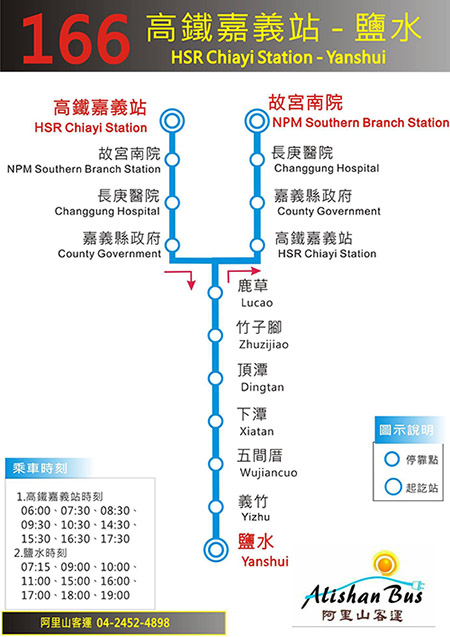
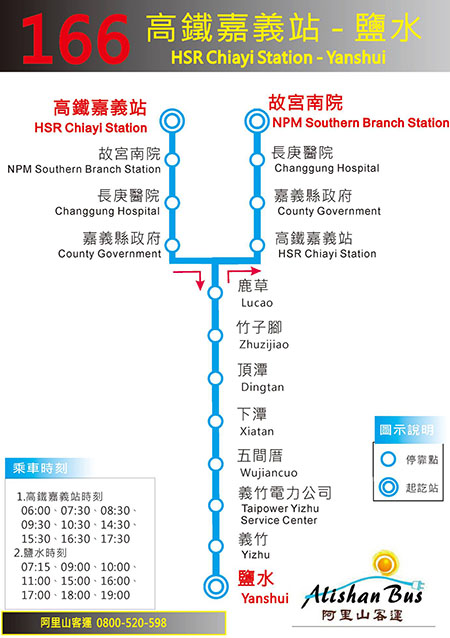
更新票價：166、7207、7208、7210、7214、7229、7407、7408、7410、7702、8050

diff --git a/route/fare_and_time/highway_bus_8050.js b/route/fare_and_time/highway_bus_8050.js
@@ -19,23 +19,23 @@ highway_bus_8050_interval_stop = [
 ["佛陀紀念館","佛光山"] // 佛光山
 ];
 highway_bus_8050_fare = [
-[24,21,29,37,40,48,56,64,69,77,85,93,117,131,142,155,163],
-[24,24,21,21,24,32,40,48,53,61,69,77,101,115,125,139,147],
-[33,24,24,21,21,21,27,35,40,48,56,64,88,101,112,125,134],
-[43,24,24,24,21,21,21,27,32,40,48,56,80,93,104,117,125],
-[46,27,24,24,24,21,21,24,29,37,45,53,77,91,101,115,123],
-[55,36,24,24,24,24,21,21,21,29,37,45,69,83,93,107,115],
-[64,46,30,24,24,24,24,21,21,21,29,37,61,75,85,99,107],
-[73,55,40,30,27,24,24,24,21,21,21,29,53,67,77,91,99],
-[79,61,46,36,33,24,24,24,24,21,21,24,48,61,72,85,93],
-[88,70,55,46,43,33,24,24,24,24,21,21,40,53,64,77,85],
-[97,79,64,55,52,43,33,24,24,24,24,21,32,45,56,69,77],
-[106,88,73,64,61,52,43,33,27,24,24,24,24,37,48,61,69],
-[134,116,100,91,88,79,70,61,55,46,36,26,24,21,24,37,45],
-[149,131,116,106,103,94,85,76,70,61,52,43,24,24,21,24,32],
-[161,143,128,119,116,106,97,88,82,73,64,55,27,24,24,21,21],
-[176,158,143,134,131,122,112,103,97,88,79,70,43,27,24,24,21],
-[185,167,152,143,140,131,122,112,106,97,88,79,52,36,24,24,24]
+[25,22,30,38,41,49,58,66,71,79,88,96,121,134,145,159,167],
+[25,25,22,22,25,33,41,49,55,63,71,79,104,118,129,142,151],
+[34,25,25,22,22,22,27,36,41,49,58,66,90,104,115,129,137],
+[44,25,25,25,22,22,22,27,33,41,49,58,82,96,107,121,129],
+[47,28,25,25,25,22,22,25,30,38,47,55,79,93,104,118,126],
+[56,37,25,25,25,25,22,22,22,30,38,47,71,85,96,110,118],
+[65,47,31,25,25,25,25,22,22,22,30,38,63,77,88,101,110],
+[75,56,41,31,28,25,25,25,22,22,22,30,55,68,79,93,101],
+[81,62,47,37,34,25,25,25,25,22,22,25,49,63,74,88,96],
+[90,72,56,47,44,34,25,25,25,25,22,22,41,55,66,79,88],
+[100,81,65,56,53,44,34,25,25,25,25,22,33,47,58,71,79],
+[109,90,75,65,62,53,44,34,28,25,25,25,25,38,49,63,71],
+[137,119,103,94,90,81,72,62,56,47,37,28,25,22,25,38,47],
+[153,134,119,109,106,97,87,78,72,62,53,44,25,25,22,25,33],
+[165,147,131,122,119,109,100,90,84,75,65,56,28,25,25,22,22],
+[181,162,147,137,134,125,115,106,100,90,81,72,44,28,25,25,22],
+[190,172,156,147,143,134,125,115,109,100,90,81,53,37,25,25,25]
 ];
 // format = [time at the start stop] or
 // [time, other] or

diff --git a/route/fare_and_time/highway_bus_7207.js b/route/fare_and_time/highway_bus_7207.js
@@ -19,23 +19,23 @@ highway_bus_7207_interval_stop = [
 ["牛埔","鹽水"] // 鹽水
 ];
 highway_bus_7207_fare = [
-[24,21,21,21,21,21,35,43,47,53,59,62,66,74,83,84,93],
-[24,24,21,21,21,21,29,38,41,48,53,57,61,68,77,79,87],
-[24,24,24,21,21,21,27,35,39,45,51,54,58,66,75,76,85],
-[24,24,24,24,21,21,22,31,34,41,46,50,54,61,70,72,80],
-[24,24,24,24,24,21,21,27,30,37,42,46,50,57,66,68,76],
-[24,24,24,24,24,24,21,21,23,30,35,38,42,50,59,61,69],
-[40,33,30,25,24,24,24,21,21,21,24,28,32,39,48,50,58],
-[49,43,40,35,30,24,24,24,21,21,21,21,23,30,40,41,49],
-[53,47,44,39,35,26,24,24,24,21,21,21,21,27,36,37,46],
-[61,54,52,47,42,34,24,24,24,24,21,21,21,21,30,31,39],
-[67,60,58,53,48,40,27,24,24,24,24,21,21,21,24,26,34],
-[71,64,62,57,52,44,31,24,24,24,24,24,21,21,21,22,30],
-[75,69,66,61,57,48,36,26,24,24,24,24,24,21,21,21,26],
-[84,78,75,70,65,57,44,35,30,24,24,24,24,24,21,21,21],
-[95,88,85,80,76,67,55,45,41,34,28,24,24,24,24,21,21],
-[96,90,87,82,77,69,57,47,43,35,29,25,24,24,24,24,21],
-[105,99,96,91,87,78,66,56,52,45,39,35,30,24,24,24,24]
+[25,22,22,22,22,22,36,44,48,55,60,64,68,76,85,87,95],
+[25,25,22,22,22,22,30,39,42,49,55,58,62,70,79,81,89],
+[25,25,25,22,22,22,27,36,40,47,52,56,60,67,77,78,87],
+[25,25,25,25,22,22,23,32,35,42,47,51,55,63,72,74,82],
+[25,25,25,25,25,22,22,27,31,38,43,47,51,59,68,70,78],
+[25,25,25,25,25,25,22,22,24,30,36,39,44,51,61,62,71],
+[41,34,31,26,25,25,25,22,22,22,25,28,32,40,50,51,59],
+[51,44,41,36,31,25,25,25,22,22,22,22,24,31,41,42,51],
+[55,48,46,40,36,27,25,25,25,22,22,22,22,27,37,38,47],
+[62,56,53,48,43,35,25,25,25,25,22,22,22,22,30,32,40],
+[69,62,59,54,49,41,28,25,25,25,25,22,22,22,25,26,35],
+[73,66,63,58,53,45,32,25,25,25,25,25,22,22,22,23,31],
+[77,71,68,63,58,50,37,27,25,25,25,25,25,22,22,22,27],
+[86,80,77,71,67,58,46,36,31,25,25,25,25,25,22,22,22],
+[97,90,88,82,78,69,56,46,42,35,28,25,25,25,25,22,22],
+[99,92,89,84,79,71,58,48,44,36,30,26,25,25,25,25,22],
+[108,102,99,94,89,80,68,58,53,46,40,36,31,25,25,25,25]
 ];
 // format = [time at the start stop] or
 // [time, other] or

diff --git a/route/fare_and_time/highway_bus_7208.js b/route/fare_and_time/highway_bus_7208.js
@@ -19,23 +19,23 @@ highway_bus_7208_interval_stop = [
 ["牛埔","鹽水"] // 鹽水
 ];
 highway_bus_7208_fare = [
-[24,21,21,21,21,21,35,43,47,53,58,62,66,74,83,84,93],
-[24,24,21,21,21,21,29,38,41,48,53,57,61,68,77,79,87],
-[24,24,24,21,21,21,27,35,39,45,50,54,58,66,75,76,85],
-[24,24,24,24,21,21,22,31,34,41,46,50,54,61,70,72,80],
-[24,24,24,24,24,21,21,27,30,37,42,46,50,57,66,68,76],
-[24,24,24,24,24,24,21,21,23,30,35,38,42,50,59,61,69],
-[40,33,30,25,24,24,24,21,21,21,24,28,32,39,48,50,58],
-[49,43,40,35,30,24,24,24,21,21,21,21,23,30,40,41,49],
-[53,47,44,39,35,26,24,24,24,21,21,21,21,27,36,37,46],
-[61,54,52,47,42,34,24,24,24,24,21,21,21,21,30,31,39],
-[67,60,57,52,48,40,27,24,24,24,24,21,21,21,28,29,37],
-[71,64,62,57,52,44,31,24,24,24,24,24,21,21,21,22,30],
-[75,69,66,61,57,48,36,26,24,24,24,24,24,21,21,21,26],
-[84,78,75,70,65,57,44,35,30,24,24,24,24,24,21,21,21],
-[95,88,85,80,76,67,55,45,41,34,31,24,24,24,24,21,21],
-[96,90,87,82,77,69,57,47,43,35,33,25,24,24,24,24,21],
-[105,99,96,91,87,78,66,56,52,45,42,35,30,24,24,24,24]
+[25,22,22,22,22,22,36,44,48,55,60,64,68,76,85,87,95],
+[25,25,22,22,22,22,30,39,42,49,54,58,62,70,79,81,89],
+[25,25,25,22,22,22,27,36,40,47,52,56,60,67,77,78,87],
+[25,25,25,25,22,22,23,32,35,42,47,51,55,63,72,74,82],
+[25,25,25,25,25,22,22,27,31,38,43,47,51,59,68,70,78],
+[25,25,25,25,25,25,22,22,24,30,36,39,44,51,61,62,71],
+[41,34,31,26,25,25,25,22,22,22,24,28,32,40,50,51,59],
+[51,44,41,36,31,25,25,25,22,22,22,22,24,31,41,42,51],
+[55,48,46,40,36,27,25,25,25,22,22,22,22,27,37,38,47],
+[62,56,53,48,43,35,25,25,25,25,22,22,22,22,30,32,40],
+[68,62,59,54,49,41,28,25,25,25,25,22,22,22,28,30,38],
+[73,66,63,58,53,45,32,25,25,25,25,25,22,22,22,23,31],
+[77,71,68,63,58,50,37,27,25,25,25,25,25,22,22,22,27],
+[86,80,77,71,67,58,46,36,31,25,25,25,25,25,22,22,22],
+[97,90,88,82,78,69,56,46,42,35,32,25,25,25,25,22,22],
+[99,92,89,84,79,71,58,48,44,36,34,26,25,25,25,25,22],
+[108,102,99,94,89,80,68,58,53,46,43,36,31,25,25,25,25]
 ];
 // format = [time at the start stop] or
 // [time, other] or

diff --git a/route/fare_and_time/hsr_shuttle_166.js b/route/fare_and_time/hsr_shuttle_166.js
@@ -1,7 +1,8 @@
-hsr_shuttle_166_interval_name = ["鹽水","義竹","五間厝","下潭","頂潭","竹子腳","鹿草","高鐵<br />嘉義站","嘉義<br />縣政府","長庚<br />醫院","故宮<br />南院"];
+hsr_shuttle_166_interval_name = ["鹽水","義竹","義竹電<br />力公司","五間厝","下潭","頂潭","竹子腳","鹿草","高鐵<br />嘉義站","嘉義<br />縣政府","長庚<br />醫院","故宮<br />南院"];
 hsr_shuttle_166_interval_stop = [
 ["鹽水"], // 鹽水
 ["義竹"], // 義竹
+["義竹電力公司"], // 義竹電力公司
 ["五間厝"], // 五間厝
 ["下潭"], // 下潭
 ["頂潭"], // 頂潭
@@ -13,17 +14,18 @@ hsr_shuttle_166_interval_stop = [
 ["故宮南院"] // 故宮南院
 ];
 hsr_shuttle_166_fare = [
-[24,21,21,27,30,33,38,56,60,64,68],
-[24,24,21,21,21,24,29,47,51,55,59],
-[24,24,24,21,21,21,21,37,41,45,49],
-[30,24,24,24,21,21,21,30,34,38,42],
-[34,24,24,24,24,21,21,27,30,35,38],
-[37,27,24,24,24,24,21,23,27,31,35],
-[43,33,24,24,24,24,24,21,22,26,30],
-[64,54,42,34,30,27,24,24,21,21,21],
-[68,58,46,38,35,31,25,24,24,21,21],
-[73,63,51,43,39,36,30,24,24,24,21],
-[78,68,55,47,44,40,34,24,24,24,24]
+[24,21,21,21,27,30,34,39,58,62,66,70],
+[24,24,21,21,21,21,25,30,49,53,57,61],
+[24,24,24,21,21,21,21,27,45,49,54,58],
+[24,24,24,24,21,21,21,21,38,42,46,50],
+[31,24,24,24,24,21,21,21,30,34,39,43],
+[35,24,24,24,24,24,21,21,27,31,36,40],
+[38,28,24,24,24,24,24,21,24,28,32,36],
+[44,34,30,24,24,24,24,24,21,23,27,31],
+[66,55,52,43,35,31,27,24,24,21,21,21],
+[70,60,56,47,39,36,32,26,24,24,21,21],
+[75,65,61,52,44,40,37,31,24,24,24,21],
+[80,69,66,57,49,45,41,35,24,24,24,24]
 ];
 // format = [time at the start stop] or
 // [time, other] or

diff --git a/tools/show_fare_tool.js b/tools/show_fare_tool.js
@@ -1,6 +1,6 @@
 var HIGHWAY_CARD_PRICE_RATIO = 0.87842; // Card price = Cash price * HIGHWAY_CARD_PRICE_RATIO
-var HIGHWAY_CARD_PRICE_BASE = 21; // The card price for distance within 8 km
-var HIGHWAY_CARD_PRICE_DISCOUNT = 5; // Discount for the highway bus of Hsinyin Bus
+var HIGHWAY_CARD_PRICE_BASE = 22; // The card price for distance within 8 km
+var HIGHWAY_CARD_PRICE_DISCOUNT = 0; // Discount for the highway bus of Hsinyin Bus
 
 function create_select_menu(name_array, color_name, LINE_NAME, fare_type){ // print the fare menu
 	var max_color_num = 4;
@@ -48,10 +48,10 @@ function query_fare(theForm, fare_array, fare_type){
 			card_price = Math.round(price * HIGHWAY_CARD_PRICE_RATIO);
 			break;
 		case 'highway': // real price for using RFID card
-			card_price = (fd<td) ? fare_array[fd][td]: (fd==td) ? 21 : fare_array[td][fd];
+			card_price = (fd<td) ? fare_array[fd][td]: (fd==td) ? 22 : fare_array[td][fd];
 			break;
 		case '8050':
-			card_price = (fd<td) ? fare_array[fd][td]: (fd==td) ? 21 : fare_array[td][fd];
+			card_price = (fd<td) ? fare_array[fd][td]: (fd==td) ? 22 : fare_array[td][fd];
 			var citizen_card_price = card_price - HIGHWAY_CARD_PRICE_BASE;
 			document.getElementById("card_adult").innerHTML = citizen_card_price;
 			document.getElementById("card_half").innerHTML = Math.floor(citizen_card_price/2);

diff --git a/route/fare_and_time/tour_bus_7702.js b/route/fare_and_time/tour_bus_7702.js
@@ -1,4 +1,4 @@
-tour_bus_7702_interval_name = ["嘉義<br />轉運站","嘉義<br />高鐵站","故宮南院","東石漁<br />人碼頭","高跟鞋<br />教堂","好美里","北門遊<br />客中心"];
+tour_bus_7702_interval_name = ["嘉義<br />轉運站","嘉義<br />高鐵站","故宮南院","東石漁<br />人碼頭","高跟鞋<br />教堂","好美里","北門遊<br />客中心","嘉義<br />高鐵站","嘉義<br />轉運站"];
 tour_bus_7702_interval_stop = [
 ["嘉義轉運站"],
 ["嘉義高鐵站"],
@@ -6,16 +6,20 @@ tour_bus_7702_interval_stop = [
 ["東石漁人碼頭"],
 ["高跟鞋教堂"],
 ["好美里"],
-["北門遊客中心"]
+["北門遊客中心"],
+["嘉義高鐵站"],
+["嘉義轉運站"]
 ];
 tour_bus_7702_fare = [
-[24,39,49,104,141,173,202],
-[44,24,21,65,102,134,163],
-[56,24,24,54,92,124,152],
-[118,74,62,24,37,69,98],
-[161,116,105,43,24,32,60],
-[197,153,141,79,36,24,28],
-[230,185,173,111,69,32,24]
+[25,40,51,107,145,178,207,331,371],
+[46,25,22,67,105,138,167,291,331],
+[58,25,25,56,94,127,156,280,320],
+[121,76,64,25,38,71,100,224,264],
+[165,119,107,44,25,33,62,186,226],
+[202,157,145,81,37,25,29,153,193],
+[235,190,178,114,70,33,25,124,164],
+[376,331,319,255,211,174,141,25,40],
+[422,376,364,301,257,220,186,46,25]
 ];
 // format = [time at the start stop] or
 // [time, other] or

diff --git a/route/fare_and_time/highway_bus_7210.js b/route/fare_and_time/highway_bus_7210.js
@@ -13,17 +13,17 @@ highway_bus_7210_interval_stop = [
 ["恆大","日光幼稚園","舊郵局","圓環地政","白河分局","白河"] // 白河
 ];
 highway_bus_7210_fare = [
-[24,21,21,21,21,23,30,33,38,42,48],
-[24,24,21,21,21,21,24,27,31,35,41],
-[24,24,24,21,21,21,21,23,27,31,37],
-[24,24,24,24,21,21,21,21,23,27,33],
-[24,24,24,24,24,21,21,21,21,21,26],
-[26,24,24,24,24,24,21,21,21,21,25],
-[34,27,24,24,24,24,24,21,21,21,21],
-[38,31,26,24,24,24,24,24,21,21,21],
-[43,36,31,26,24,24,24,24,24,21,21],
-[47,40,35,30,24,24,24,24,24,24,21],
-[54,47,42,37,30,29,24,24,24,24,24]
+[25,22,22,22,22,23,31,34,39,43,49],
+[25,25,22,22,22,22,24,28,32,36,42],
+[25,25,25,22,22,22,22,23,28,32,38],
+[25,25,25,25,22,22,22,22,23,27,34],
+[25,25,25,25,25,22,22,22,22,22,27],
+[27,25,25,25,25,25,22,22,22,22,26],
+[35,28,25,25,25,25,25,22,22,22,22],
+[39,31,27,25,25,25,25,25,22,22,22],
+[44,36,31,27,25,25,25,25,25,22,22],
+[49,41,36,31,25,25,25,25,25,25,22],
+[56,48,43,38,31,29,25,25,25,25,25]
 ];
 // format = [time at the start stop] or
 // [time, other] or

diff --git a/route/fare_and_time/highway_bus_7407.js b/route/fare_and_time/highway_bus_7407.js
@@ -16,20 +16,20 @@ highway_bus_7407_interval_stop = [
 ["朴子加油站","診所前(蔡眼科)","朴子"] // 朴子
 ];
 highway_bus_7407_fare = [
-[24],
-[24,24],
-[24,24,24],
-[28,24,24,24],
-[32,24,24,24,24],
-[34,24,24,24,24,24],
-[40,25,24,24,24,24,24],
-[45,30,24,24,24,24,24,24],
-[50,35,26,24,24,24,24,24,24],
-[56,41,33,28,24,24,24,24,24,24],
-[63,48,39,35,31,29,24,24,24,24,24],
-[70,55,46,42,38,36,30,25,24,24,24,24],
-[73,58,49,45,41,39,33,28,24,24,24,24,24],
-[86,71,62,58,54,52,47,41,36,30,24,24,24,24]
+[25],
+[25,25],
+[25,25,25],
+[29,25,25,25],
+[32,25,25,25,25],
+[35,25,25,25,25,25],
+[41,25,25,25,25,25,25],
+[46,31,25,25,25,25,25,25],
+[51,36,27,25,25,25,25,25,25],
+[58,42,33,29,25,25,25,25,25,25],
+[64,49,40,36,32,30,25,25,25,25,25],
+[72,56,47,43,39,37,31,26,25,25,25,25],
+[75,60,51,46,42,40,34,29,25,25,25,25,25],
+[88,73,64,60,56,54,48,42,37,31,25,25,25,25]
 ];
 // format = [time at the start stop] or
 // [time, other] or

diff --git a/route/fare_and_time/highway_bus_7408.js b/route/fare_and_time/highway_bus_7408.js
@@ -16,20 +16,20 @@ highway_bus_7408_interval_stop = [
 ["好美里"] // 好美里
 ];
 highway_bus_7408_fare = [
-[24],
-[24,24],
-[25,24,24],
-[34,24,24,24],
-[37,24,24,24,24],
-[41,25,24,24,24,24],
-[43,27,24,24,24,24,24],
-[48,32,24,24,24,24,24,24],
-[53,37,28,24,24,24,24,24,24],
-[62,46,37,28,25,24,24,24,24,24],
-[69,53,43,35,32,28,26,24,24,24,24],
-[80,64,55,46,43,39,37,32,26,24,24,24],
-[95,79,70,61,58,54,52,47,41,33,26,24,24],
-[89,73,64,55,52,48,46,41,35,27,24,24,24,24]
+[25],
+[25,25],
+[26,25,25],
+[35,25,25,25],
+[38,25,25,25,25],
+[42,25,25,25,25,25],
+[44,27,25,25,25,25,25],
+[49,33,25,25,25,25,25,25],
+[55,38,29,25,25,25,25,25,25],
+[64,47,38,29,26,25,25,25,25,25],
+[70,54,45,36,32,29,27,25,25,25,25],
+[82,65,56,47,44,40,38,33,27,25,25,25],
+[97,81,71,63,59,56,53,48,42,34,27,25,25],
+[91,75,65,56,53,49,47,42,36,27,25,25,25,25]
 ];
 // format = [time at the start stop] or
 // [time, other] or

diff --git a/route/fare_and_time/highway_bus_7229.js b/route/fare_and_time/highway_bus_7229.js
@@ -12,16 +12,16 @@ highway_bus_7229_interval_stop = [
 ["柳營簡易庭","柳營奇美醫院"] // 柳營奇美醫院
 ];
 highway_bus_7229_fare = [
-[24,21,21,21,27,35,43,59,69,81],
-[24,24,21,21,21,27,35,51,61,73],
-[24,24,24,21,21,23,31,47,56,69],
-[24,24,24,24,21,21,23,39,48,61],
-[31,24,24,24,24,21,21,32,42,54],
-[40,31,26,24,24,24,21,24,34,46],
-[49,40,35,26,24,24,24,21,26,38],
-[67,58,53,44,36,27,24,24,21,22],
-[78,69,64,55,47,38,29,24,24,21],
-[92,83,78,69,61,52,43,25,24,24]
+[25,22,22,22,28,36,44,61,71,83],
+[25,25,22,22,22,28,36,52,62,75],
+[25,25,25,22,22,23,32,48,58,70],
+[25,25,25,25,22,22,23,40,50,62],
+[32,25,25,25,25,22,22,33,43,55],
+[41,31,27,25,25,25,22,25,35,47],
+[51,41,36,27,25,25,25,22,26,39],
+[69,60,55,45,37,28,25,25,22,22],
+[80,71,66,56,49,39,30,25,25,22],
+[95,85,80,71,63,54,44,26,25,25]
 ];
 // format = [time at the start stop] or
 // [time, other] or

diff --git a/route/fare_and_time/highway_bus_7410.js b/route/fare_and_time/highway_bus_7410.js
@@ -15,19 +15,19 @@ highway_bus_7410_interval_stop = [
 ["布袋商港"] // 布袋商港
 ];
 highway_bus_7410_fare = [
-[24],
-[24,24],
-[25,24,24],
-[34,24,24,24],
-[37,24,24,24,24],
-[41,25,24,24,24,24],
-[43,27,24,24,24,24,24],
-[54,38,29,24,24,24,24,24],
-[60,43,34,26,24,24,24,24,24],
-[67,50,41,33,29,26,24,24,24,24],
-[76,60,51,43,39,36,33,24,24,24,24],
-[78,62,53,44,41,37,35,24,24,24,24,24],
-[85,69,60,51,48,44,42,30,25,24,24,24,24]
+[25],
+[25,25],
+[26,25,25],
+[35,25,25,25],
+[38,25,25,25,25],
+[42,25,25,25,25,25],
+[44,27,25,25,25,25,25],
+[56,39,30,25,25,25,25,25],
+[61,45,35,27,25,25,25,25,25],
+[68,52,42,34,30,27,25,25,25,25],
+[78,62,52,44,40,36,34,25,25,25,25],
+[80,64,54,46,42,38,36,25,25,25,25,25],
+[87,70,61,52,49,45,43,31,26,25,25,25,25]
 ];
 // format = [time at the start stop] or
 // [time, other] or
